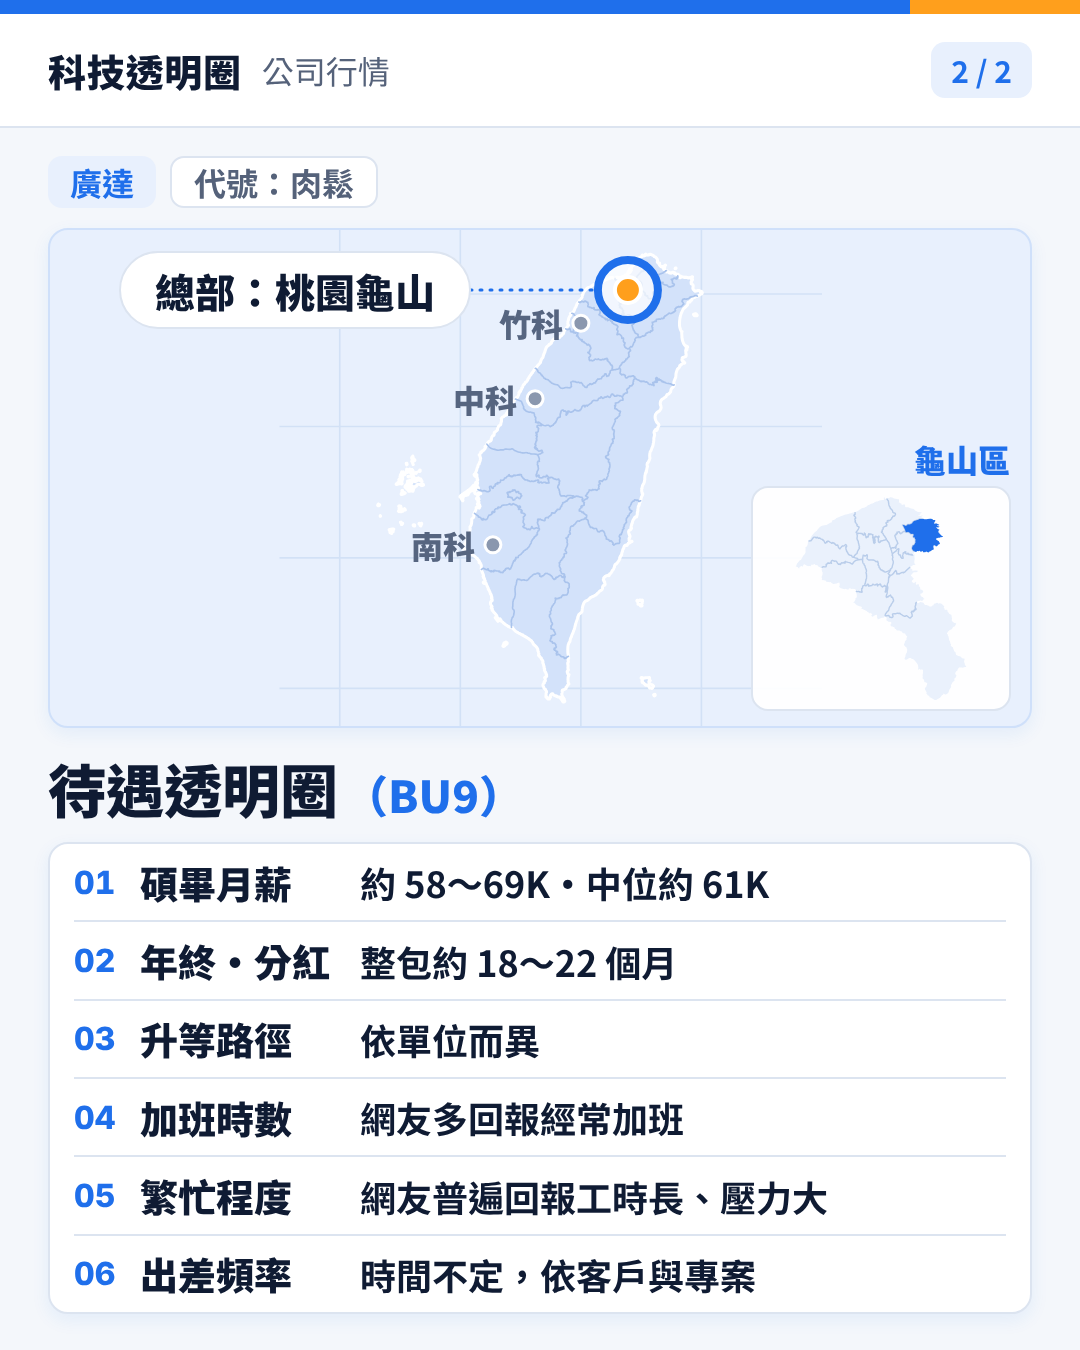
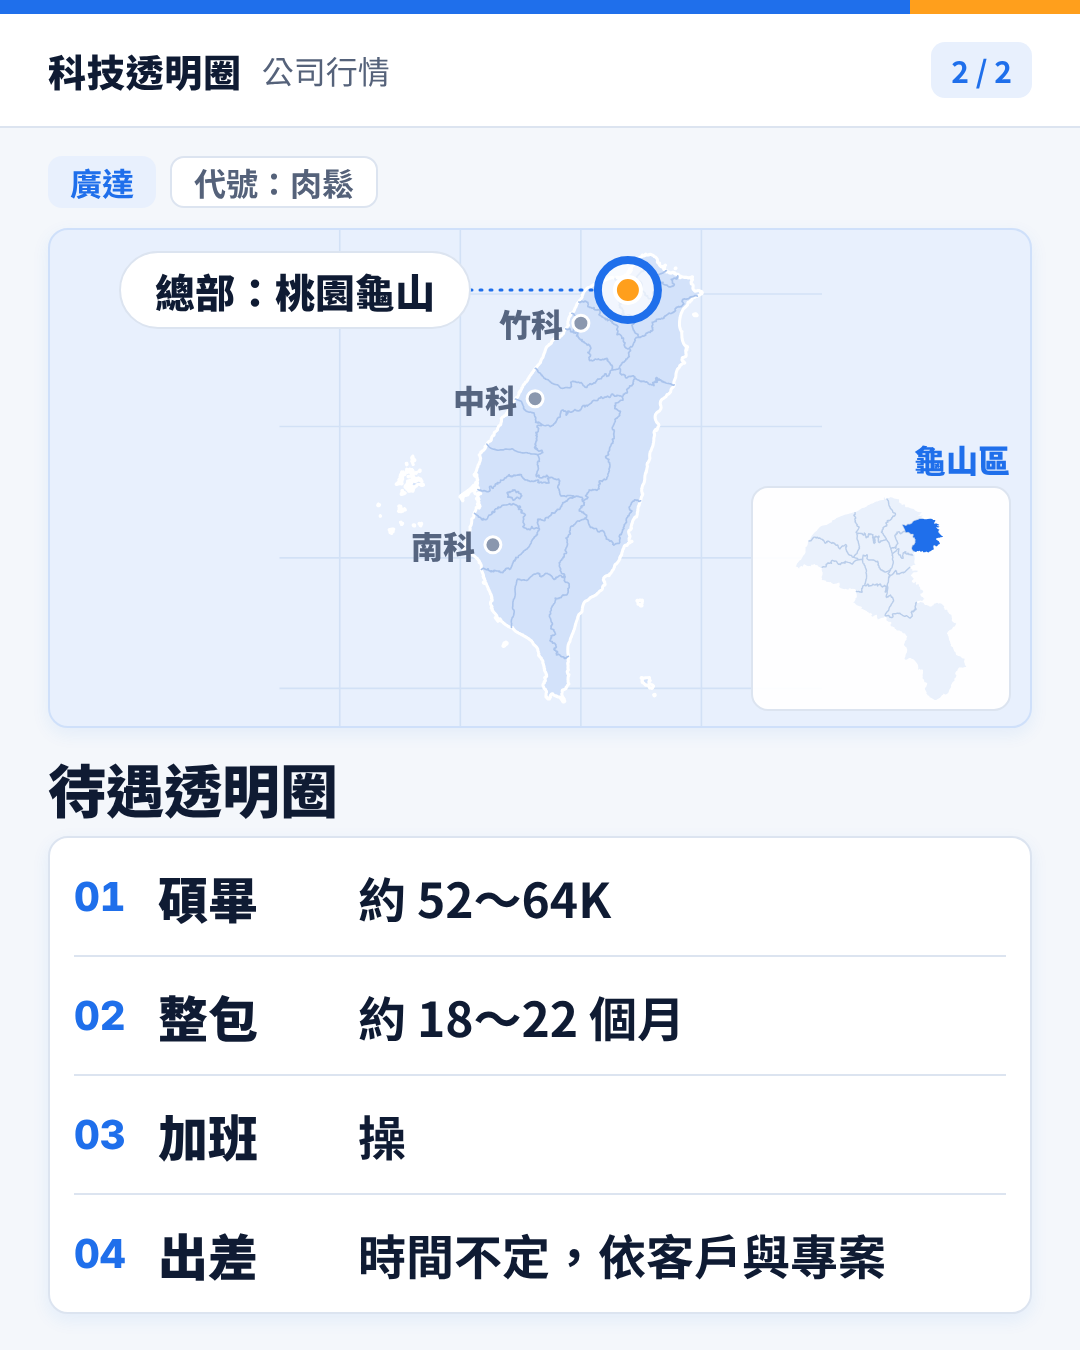
科技透明圈 廣達第 2 頁：依 Andy 重寫文案只留 4 列（碩畢／整包／加班／出差）、標題「待遇透明圈」不加括號、行高字級加大
Claude-Session: https://claude.ai/code/session_018gakVRNRsek4G6osuECGNS

Changed region(s): [[0.3056, 0.56, 0.825, 0.9644], [0.0611, 0.6222, 0.3056, 0.9644]]

diff --git a/docs/marketing/channels/tc/posts/20261105_quanta/render_quanta.py b/docs/marketing/channels/tc/posts/20261105_quanta/render_quanta.py
@@ -208,18 +208,16 @@ S["1_cover"] = (f'<div class="cv"><div class="hd"></div><div class="strip"><i></
     f'<div class="low">{TITLE_HTML}<div class="tg">{HINT}</div>{EXTRA}</div>{SWIPE}</div>')
 
 # ---- 待遇表：上半台灣地圖＋總部位置，下半「工程師待遇」6 欄（欄名＋重點值，不放備註） ----
-rows = [
-    ("碩畢月薪", "約 58～69K・中位約 61K"),
-    ("年終・分紅", "整包約 18～22 個月"),
-    ("升等路徑", "依單位而異"),
-    ("加班時數", "網友多回報經常加班"),
-    ("繁忙程度", "網友普遍回報工時長、壓力大"),
-    ("出差頻率", "時間不定，依客戶與專案"),
+rows = [   # 2026-11-08 Andy 重寫文案：「第二頁只需要寫不包含括號內容即可」→ 只留 4 列、不放括號內容、不列總部
+    ("碩畢", "約 52～64K"),
+    ("整包", "約 18～22 個月"),
+    ("加班", "操"),
+    ("出差", "時間不定，依客戶與專案"),
 ]
 trs = "".join(f'<div class="rw" style="display:flex;align-items:center;flex:1;border-top:2px solid {LINE}">'
-              f'<div class="n" style="width:66px;font-size:32px;color:{BLUE}">{i+1:02d}</div>'
-              f'<div style="width:220px;font-size:38px;font-weight:800;white-space:nowrap">{a}</div>'
-              f'<div style="flex:1;min-width:0;font-size:36px;font-weight:700;white-space:nowrap">{b}</div></div>' for i, (a, b) in enumerate(rows))
+              f'<div class="n" style="width:84px;font-size:40px;color:{BLUE}">{i+1:02d}</div>'
+              f'<div style="width:200px;font-size:50px;font-weight:800;white-space:nowrap">{a}</div>'
+              f'<div style="flex:1;min-width:0;font-size:48px;font-weight:700;white-space:nowrap">{b}</div></div>' for i, (a, b) in enumerate(rows))
 MAP_W, MAP_H = 980, 496           # 地圖 svg 尺寸（卡片 984x500 扣 2px 邊框；body 左右各 48）
 IS_H = 448                        # 台灣（含澎湖）高度，寬依比例
 IS_W = IS_H * TW["w"] / TW["h"]
